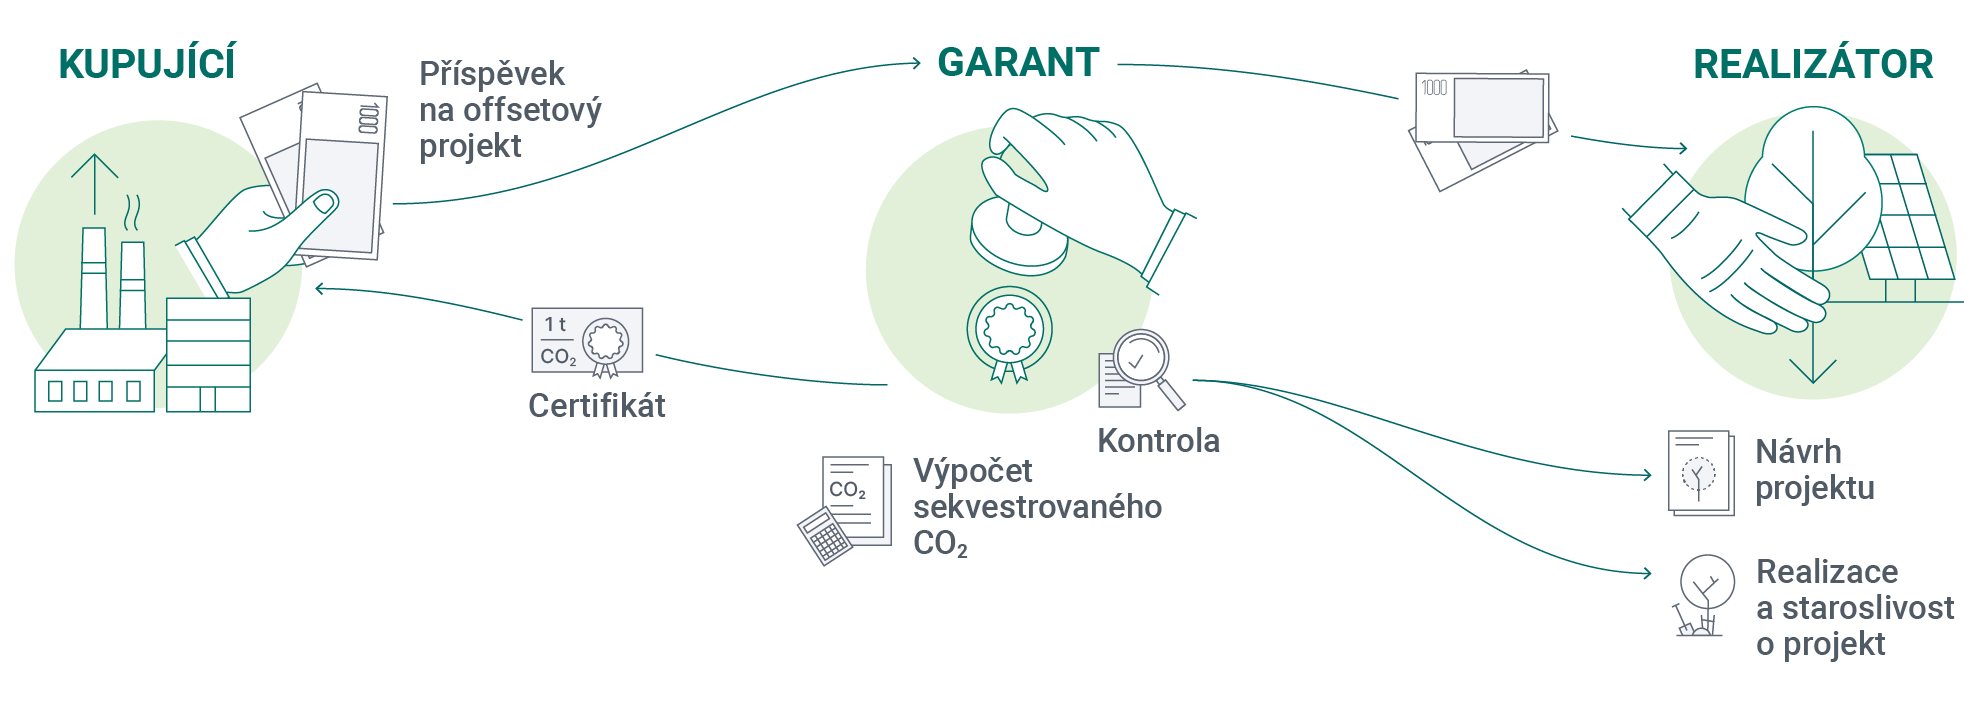
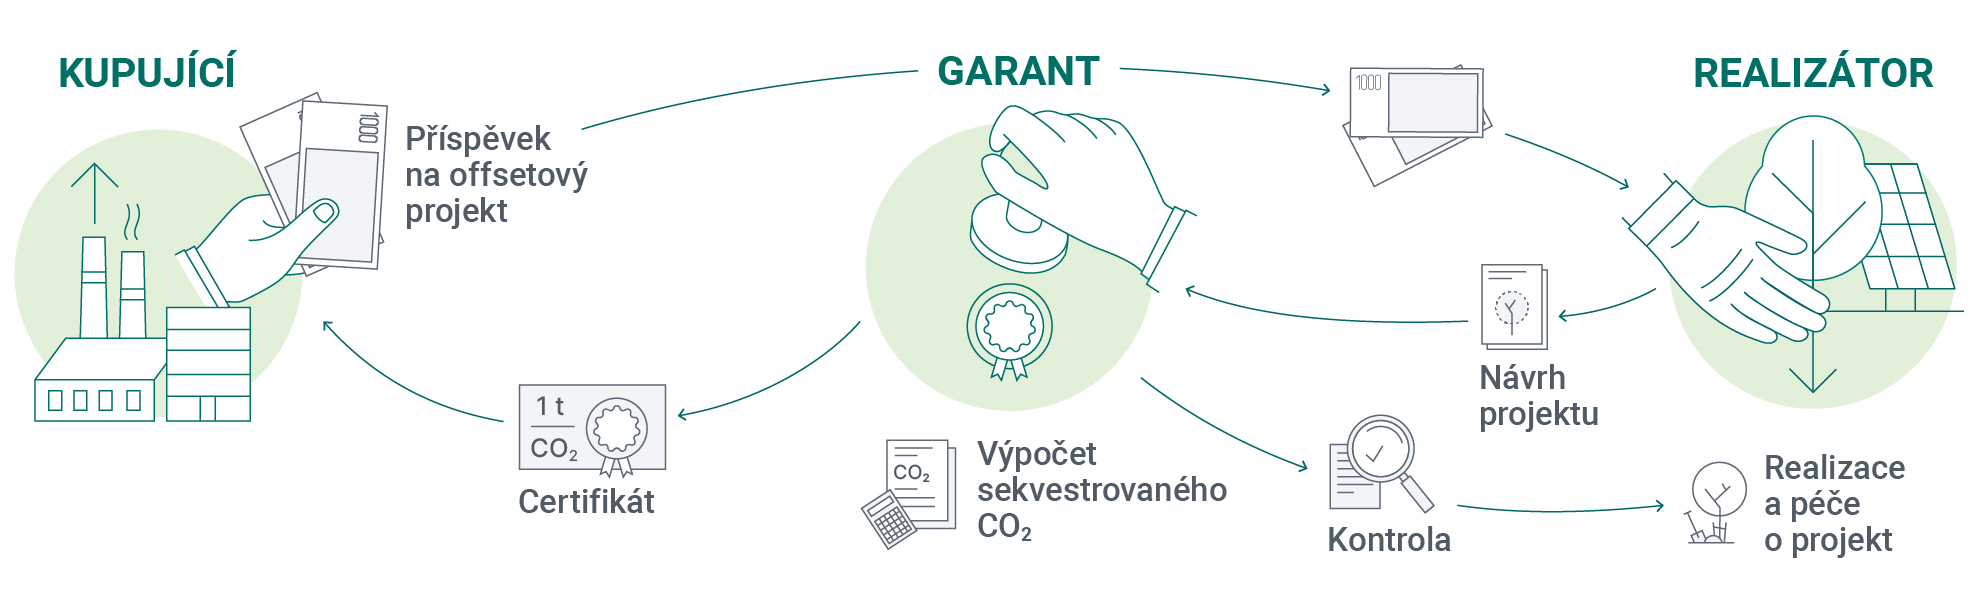
finální úpravy

diff --git a/collections/_explainers/uhlikove-offsety-1.md b/collections/_explainers/uhlikove-offsety-1.md
@@ -2,6 +2,8 @@
 layout:      explainer
 title:       "Co jsou uhlíkové offsety?"
 slug:        "uhlikove-offsety-1"
+series-id:   "serie-uhlikove-offsety"
+series-order: "I"
 published:   2023-11-27
 authors:
   - ids: ["andy-snovakova", "ondras-pribyla"]
@@ -25,17 +27,18 @@ perex: |
 
 ---
 
-Představme si situaci, kdy se firma či organizace chce z nějakého důvodu prezentovat jako klimaticky či uhlíkově neutrální. Zároveň už vyčerpala všechny možnosti, jak snížit svou uhlíkovou stopu. Může ještě něco dělat? Ano – kompenzovat své emise nákupem uhlíkových offsetů. Jak to funguje?
+Představme si situaci, kdy se firma či organizace chce z nějakého důvodu prezentovat jako klimaticky či uhlíkově neutrální. Zároveň už vyčerpala všechny možnosti, jak snížit svou uhlíkovou stopu. Může ještě něco dělat? Ano – kompenzovat své emise nákupem uhlíkových offsetů (1 offset odpovídá 1 tuně oxidu uhličitého). Jak to funguje?
 
 Uhlíkové offsety (nebo také kredity) jsou **obchodovatelné jednotky**, díky nimž mohou jednotlivci, firmy nebo státy částečně kompenzovat svou uhlíkovou stopu, kterou už nedokáží snížit jiným způsobem. Každý offset je vždy vázán na projekt či aktivitu, která uhlík (resp. oxid uhličitý) buď z atmosféry **odstraňuje** (tzv. *removal offsets*, např. výsadba stromů) nebo **zabraňuje jeho vypouštění** (tzv. *avoidance offsets*, např. výstavba nových elektráren využívajících obnovitelné zdroje). 
 
-Jde o dohodu mezi dvěma či více stranami: kupujícím, realizátorem aktivity a případně nezávislým auditorem/garantem. Kupující zaplatí za offset, aby snížil svou uhlíkovou stopu, realizátor slibuje, že tyto prostředky využije na offsetové aktivity, které povedou k odstranění emisí z atmosféry nebo zabrání jejich vypouštění. Nezávislý auditor poté posuzuje, nakolik jsou realizátorovy sliby skutečně naplňovány.
+Jde o dohodu mezi dvěma či více stranami: kupujícím, realizátorem aktivity a případně nezávislým auditorem/garantem. Kupující zaplatí za offset[^offsety-cena], aby snížil svou uhlíkovou stopu, realizátor slibuje, že tyto prostředky využije na offsetové aktivity, které povedou k odstranění emisí z atmosféry nebo zabrání jejich vypouštění. Nezávislý auditor poté posuzuje, nakolik jsou realizátorovy sliby skutečně naplňovány.
 
 {% include figure.html
     name="schema-vztahu.png"
-    caption="Cesta uhlíkového offsetu"
-    alt="Cesta uhlíkového offsetu"
+    caption="Základní rámec pro uhlíkové offsety"
+    alt="Základní rámec pro uhlíkové offsety"
     source-text="Fakta o klimatu"
+    source-url="https://www.http://faktaoklimatu/explainery/uhlikove-offsety-1"
 %}
 
 Konkrétní podoba offsetových aktivit může být různá. Například:
@@ -51,15 +54,12 @@ Příklady různých offsetových aktivit přibližuje schéma níže. Aktivity 
 
 {% include figure.html
     name="typy-offsetu.png"
-    caption="Dvě základní kategorie uhlíkových offsetů"
-    alt="Dvě základní kategorie uhlíkových offsetů"
-    source-text="Fakta o klimatu"
+    caption="Dvě základní kategorie uhlíkových offsetů a několik konkrétních příkladů offsetových aktivit"
+    alt="Dvě základní kategorie uhlíkových offsetů a několik konkrétních příkladů offsetových aktivit"
+    source-text="The Oxford Principles for Net Zero Aligned Carbon Offsetting"
+    source-url="https://www.smithschool.ox.ac.uk/sites/default/files/2022-01/Oxford-Offsetting-Principles-2020.pdf"
 %} 
-
-## Jak to funguje v praxi?
-Jak složitá bude cesta uhlíkového offsetu v praxi, záleží vždy na konkrétní zemi, resp. trhu, kde se s offsety obchoduje[^schema-carbon-brief]. Následující schéma ukazuje základní rámec pro uhlíkové offsety v Česku[^schema-konzultace]. Problémům, které se mohou v rámci jednotlivých kroků objevit, se podrobněji věnuje další explainer. 
 
 ## Zdroje a poznámky
 
-[^schema-carbon-brief]:[Schéma](https://interactive.carbonbrief.org/carbon-offsets-2023/infographic.html) popisující cestu fiktivního uhlíkového offsetu na mezinárodním trhu vytvořila organizace Carbon Brief. 
-[^schema-konzultace]:Schéma vzniklo na základě odborné konzultace s jedním z garantů offsetových projektů v ČR. 
+[^offsety-cena]: Cena za 1 offset se může lišit podle konkrétního projektu – v Česku to může být 700 Kč, ale i 4000 Kč.
